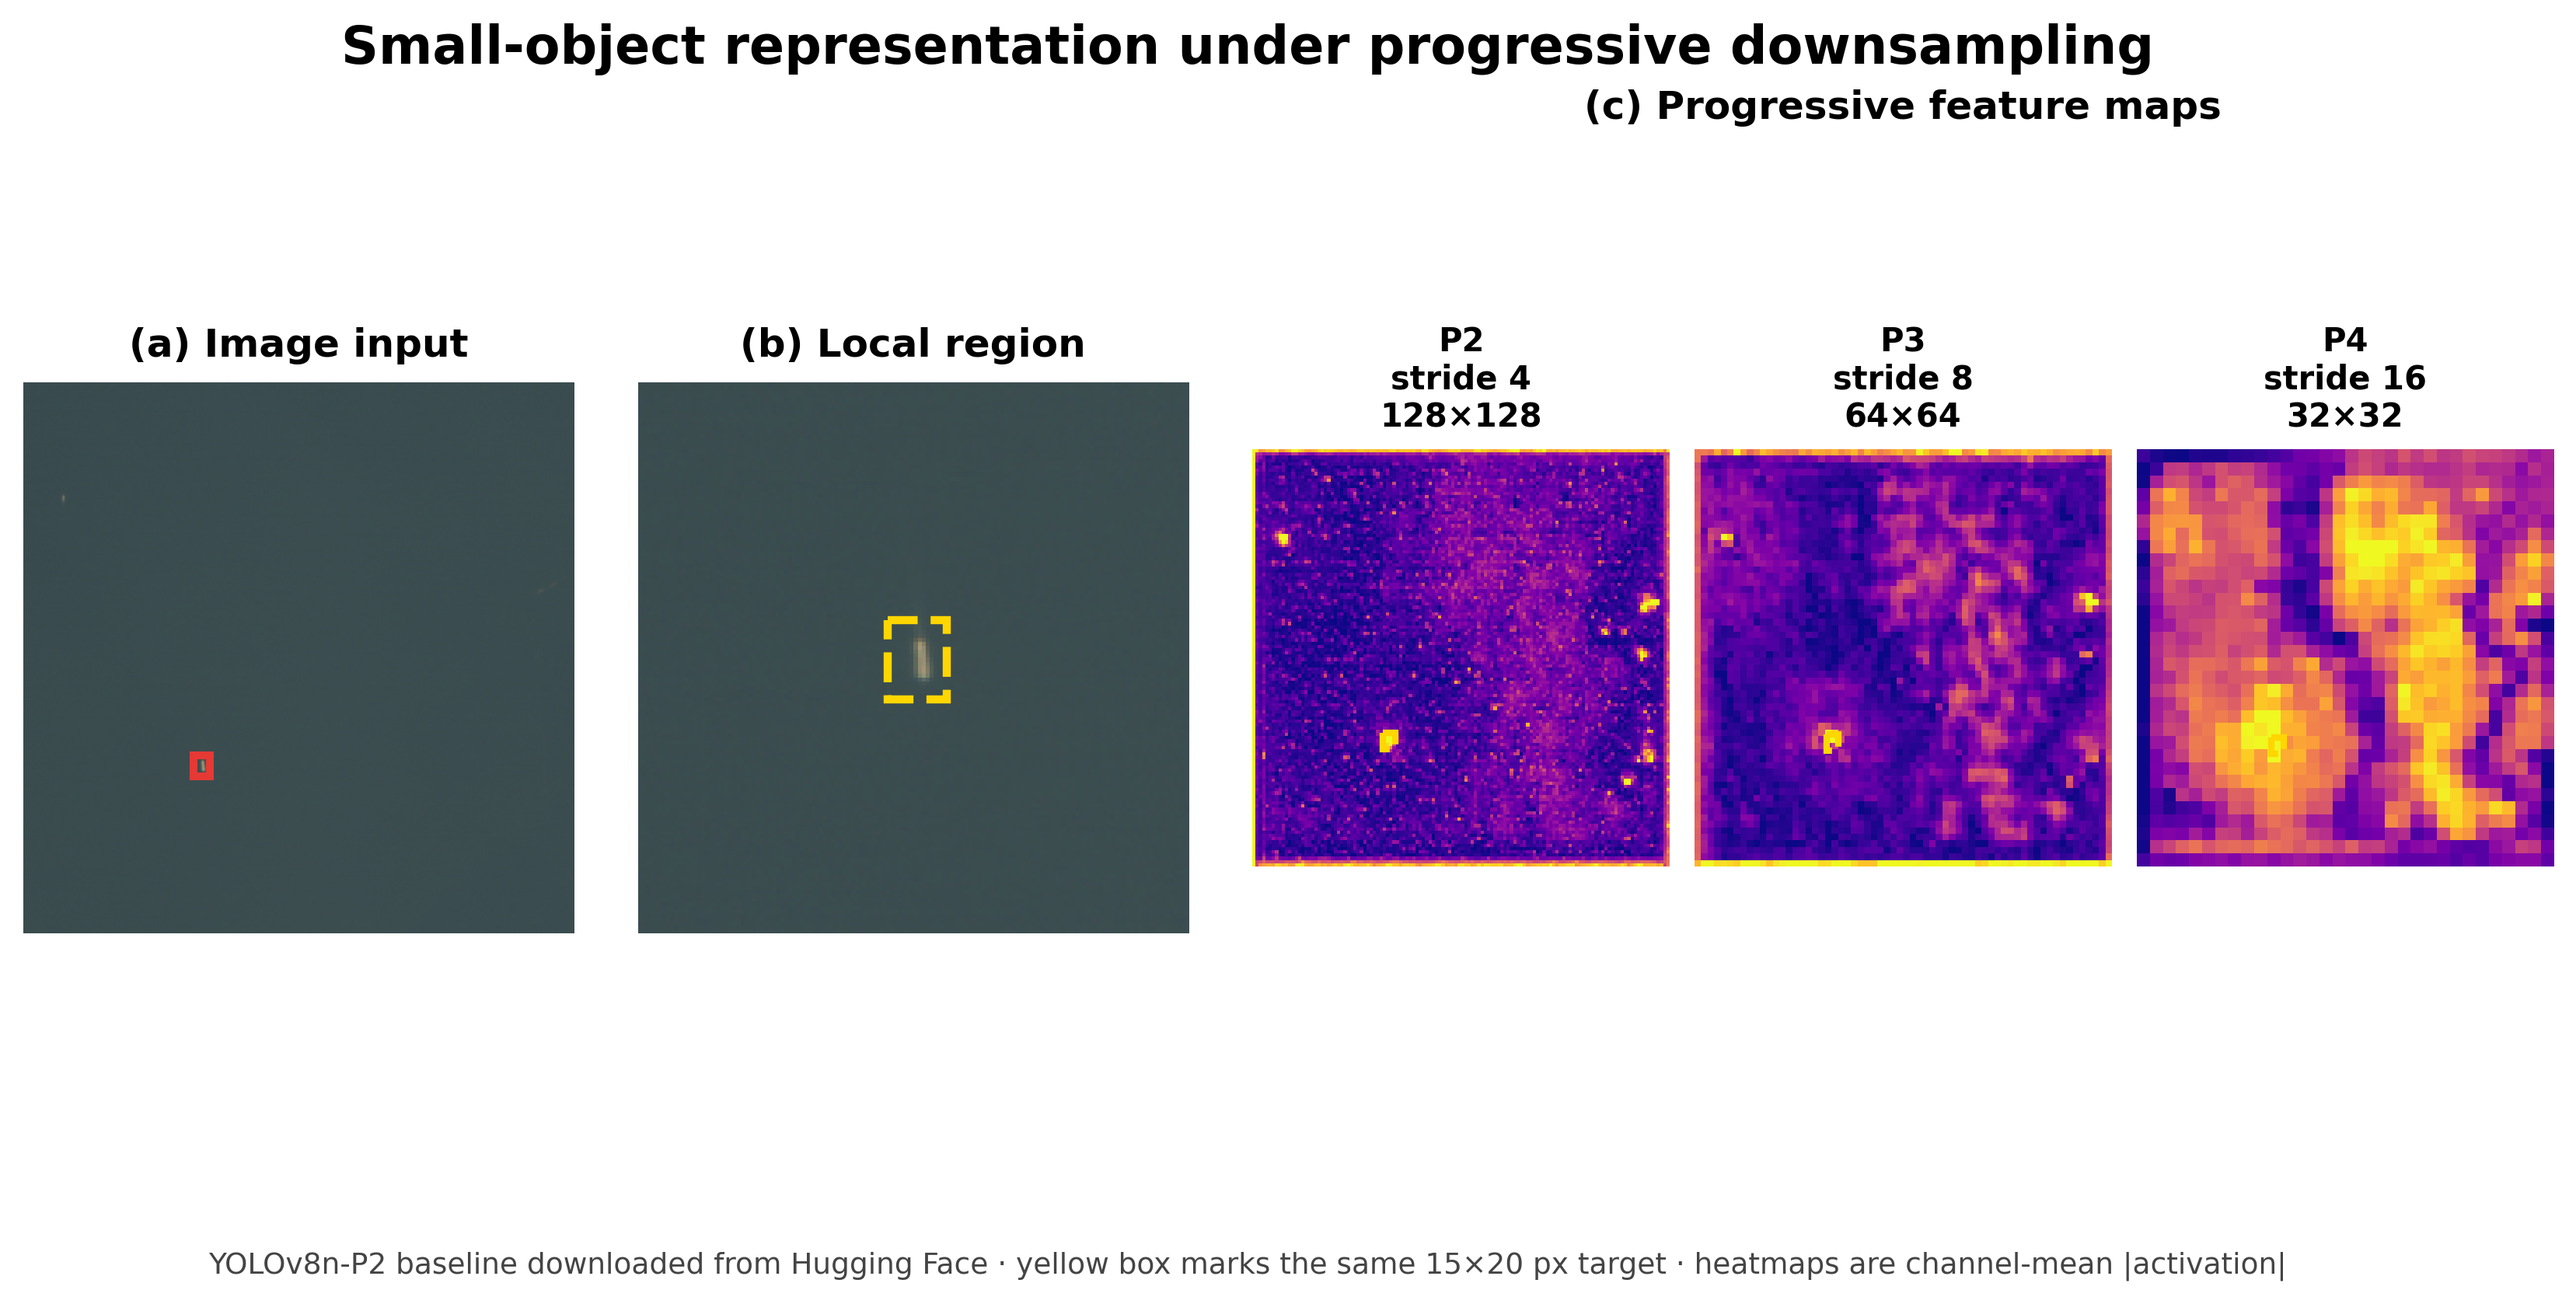
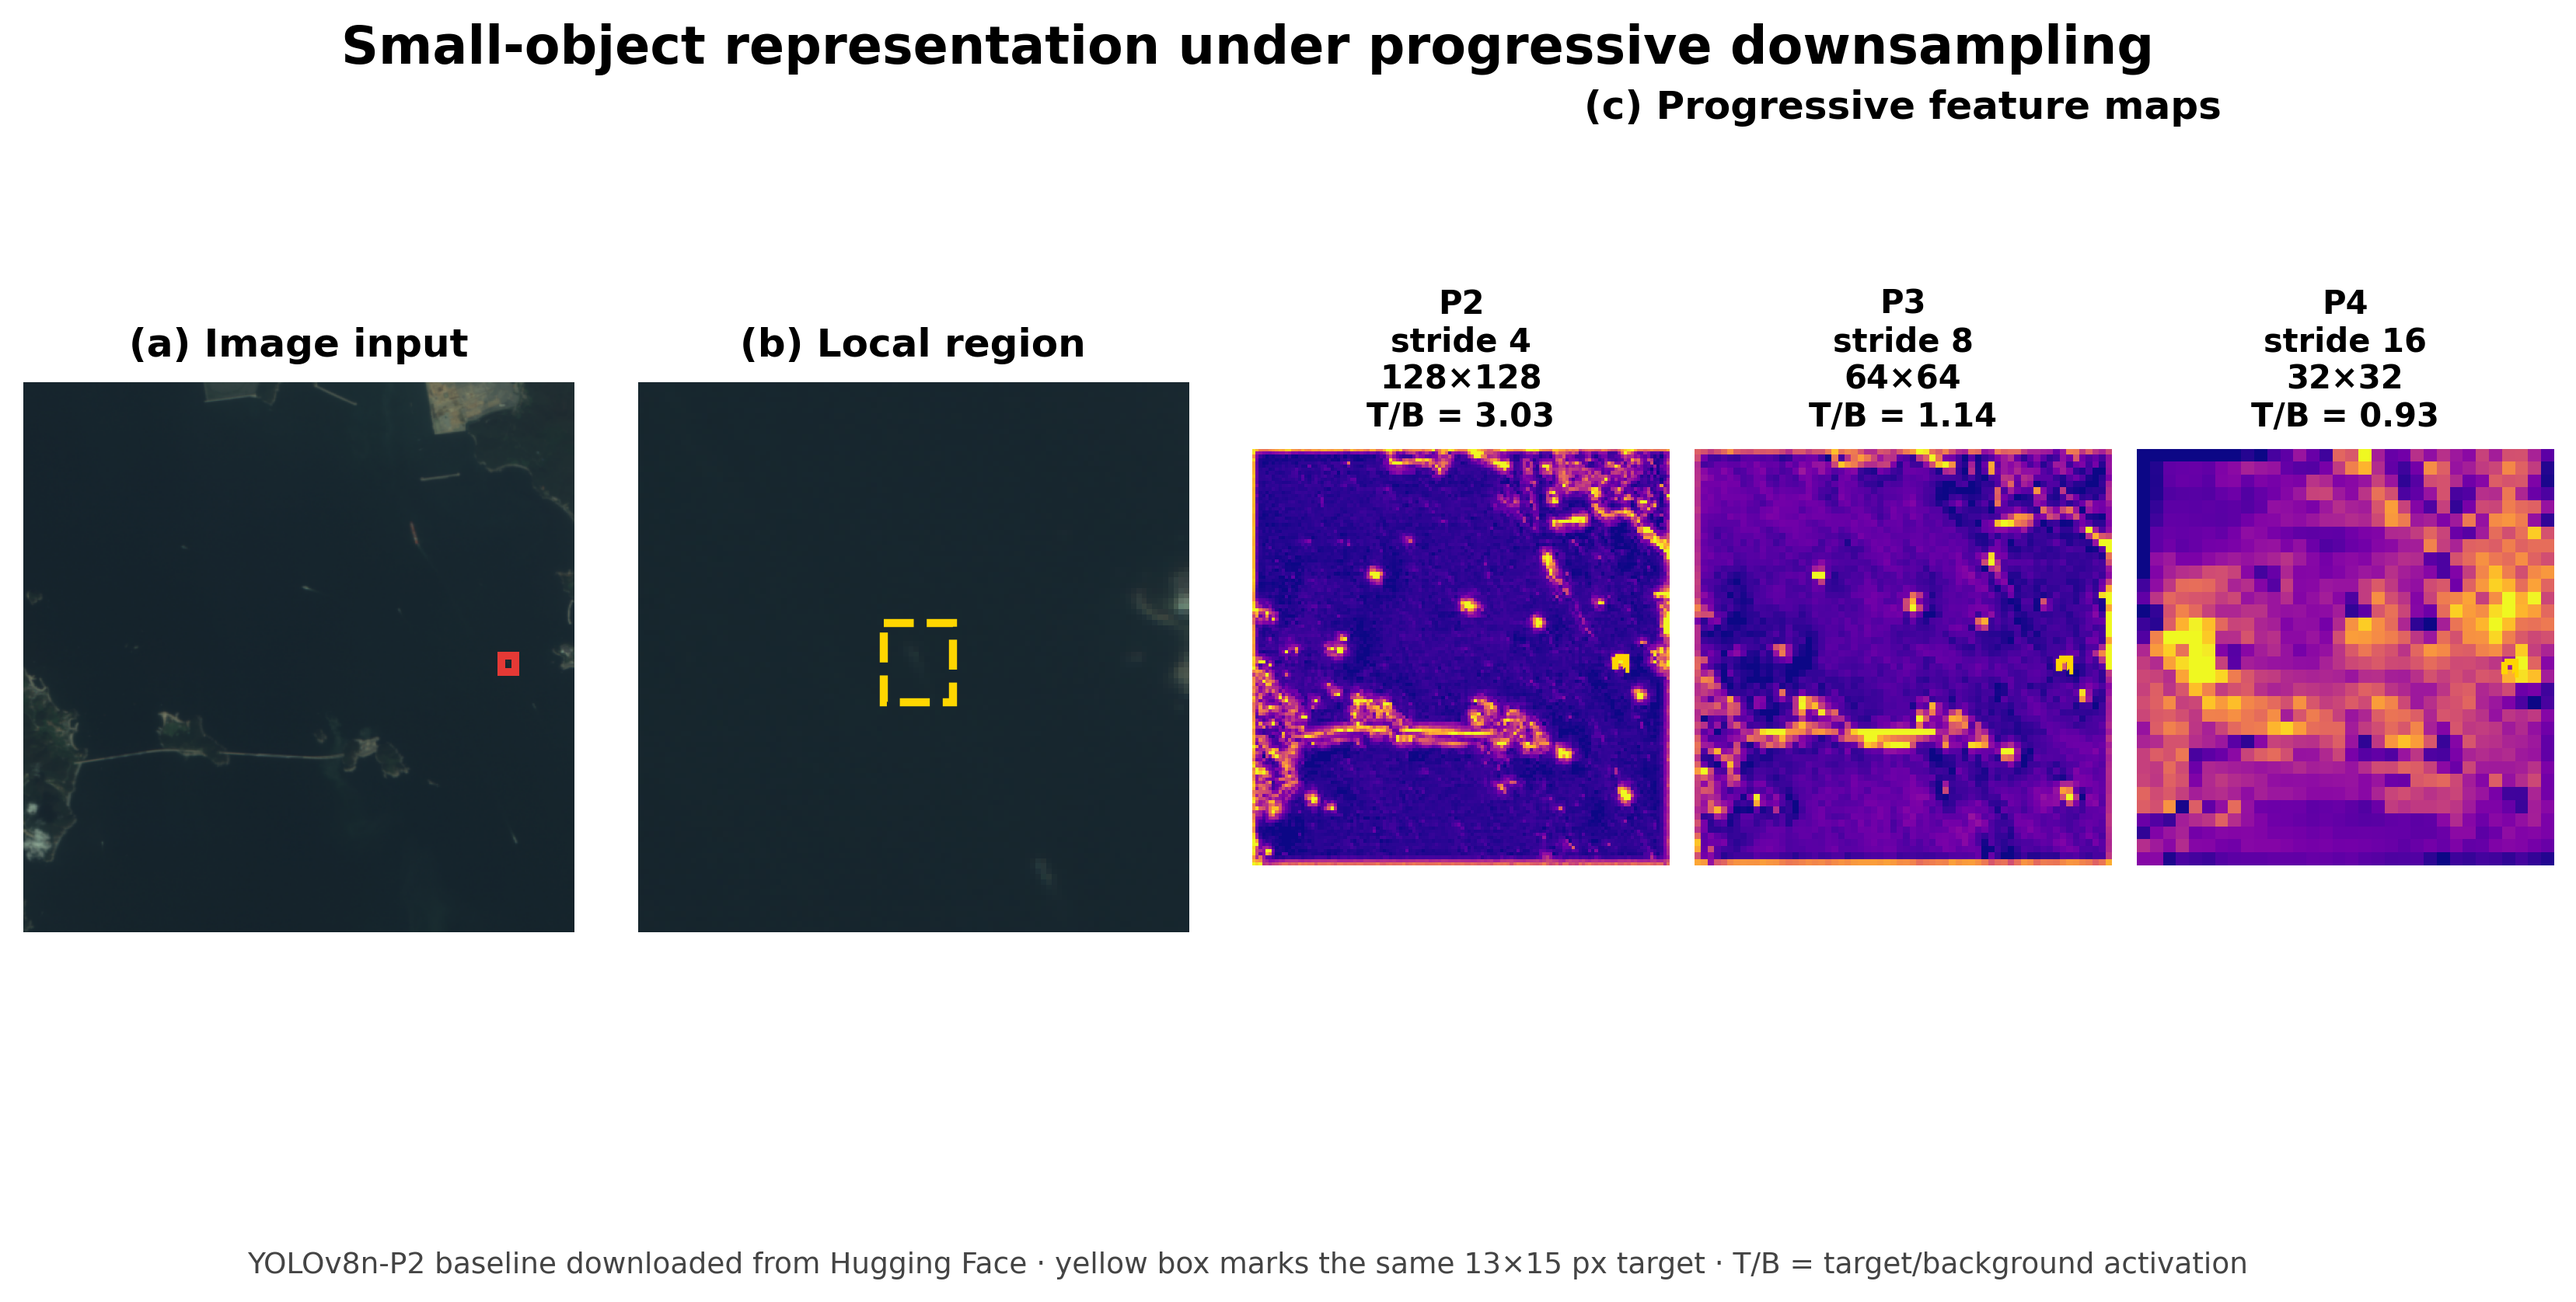
Use activation-present baseline miss

diff --git a/train_levir_scripts/plot_paper_style_negative_case.py b/train_levir_scripts/plot_paper_style_negative_case.py
@@ -19,15 +19,29 @@ from ultralytics import YOLO  # noqa: E402
 
 HF_REPO = "duyle2408/levir-ship-yolo-p2"
 HF_FILE = "train/yolov8n_p2_baseline_seed42/weights/best.pt"
-DEFAULT_IMAGE = ROOT / "datasets/levir_ship_yolo_seed42/images/test/GF6_WFV_E131.8_N38.0_20200910_L1A1120034675-2_2560_10752.png"
-# A relatively visible small target: 15 x 20 px in the 512 x 512 tile.
-DEFAULT_BOX = (158.0, 346.0, 173.0, 366.0)
+DEFAULT_IMAGE = ROOT / "datasets/levir_ship_yolo_seed42/images/test/GF6_WFV_E132.4_N35.8_20200914_L1A1120035552-1_6144_17285.png"
+# Verified baseline miss with strong early activation: 13 x 15 px in the tile.
+DEFAULT_BOX = (444.0, 254.0, 457.0, 269.0)
 STAGES = ((18, 4, "P2", "stride 4"), (21, 8, "P3", "stride 8"), (24, 16, "P4", "stride 16"))
 
 
 def norm01(x: np.ndarray) -> np.ndarray:
     lo, hi = np.percentile(x, [2, 99])
     return np.clip((x - lo) / (hi - lo + 1e-8), 0, 1)
+
+
+def target_background_ratio(feature: np.ndarray, box: tuple[float, ...], stride: int) -> float:
+    height, width = feature.shape
+    x1, y1, x2, y2 = box
+    fx1, fy1 = max(0, int(x1 / stride)), max(0, int(y1 / stride))
+    fx2, fy2 = min(width, max(fx1 + 1, int(np.ceil(x2 / stride)))), min(height, max(fy1 + 1, int(np.ceil(y2 / stride))))
+    target = feature[fy1:fy2, fx1:fx2].mean()
+    span_x, span_y = max(1, fx2 - fx1), max(1, fy2 - fy1)
+    if fx2 + span_x <= width:
+        background = feature[fy1:fy2, fx2:fx2 + span_x].mean()
+    else:
+        background = feature[fy1:fy2, max(0, fx1 - span_x):fx1].mean()
+    return float(target / (background + 1e-8))
 
 
 def main() -> None:
@@ -55,7 +69,7 @@ def main() -> None:
     feature_maps = []
     for _, stride, name, stride_label in STAGES:
         raw = captures[name].detach().abs().mean(dim=1)[0].cpu().numpy()
-        feature_maps.append((name, stride, stride_label, norm01(raw), raw.shape))
+        feature_maps.append((name, stride, stride_label, norm01(raw), raw.shape, target_background_ratio(raw, args.box, stride)))
 
     pad = max(30, int(max(x2 - x1, y2 - y1) * 3.5))
     cx, cy = (x1 + x2) / 2, (y1 + y2) / 2
@@ -81,15 +95,15 @@ def main() -> None:
 
     inner = gs[0, 2].subgridspec(1, 3, wspace=0.06)
     feature_axes = [fig.add_subplot(inner[0, i]) for i in range(3)]
-    for ax, (name, stride, stride_label, heatmap, shape) in zip(feature_axes, feature_maps):
+    for ax, (name, stride, stride_label, heatmap, shape, ratio) in zip(feature_axes, feature_maps):
         ax.imshow(heatmap, cmap="plasma", interpolation="nearest")
         ax.add_patch(plt.Rectangle((x1 / stride, y1 / stride), (x2 - x1) / stride, (y2 - y1) / stride, fill=False, color="#ffd600", linewidth=2, linestyle="--"))
-        ax.set_title(f"{name}\n{stride_label}\n{shape[1]}×{shape[0]}", fontsize=10, pad=7)
+        ax.set_title(f"{name}\n{stride_label}\n{shape[1]}×{shape[0]}\nT/B = {ratio:.2f}", fontsize=10, pad=7)
         ax.axis("off")
     ax_container.set_title("(c) Progressive feature maps", pad=8, y=1.02)
 
     fig.suptitle("Small-object representation under progressive downsampling", fontsize=16, weight="bold", y=0.99)
-    fig.text(0.5, 0.015, "YOLOv8n-P2 baseline downloaded from Hugging Face · yellow box marks the same 15×20 px target · heatmaps are channel-mean |activation|", ha="center", fontsize=9, color="#444444")
+    fig.text(0.5, 0.015, "YOLOv8n-P2 baseline downloaded from Hugging Face · yellow box marks the same 13×15 px target · T/B = target/background activation", ha="center", fontsize=9, color="#444444")
     args.output.parent.mkdir(parents=True, exist_ok=True)
     fig.savefig(args.output, dpi=300, bbox_inches="tight", facecolor="white")
     plt.close(fig)
